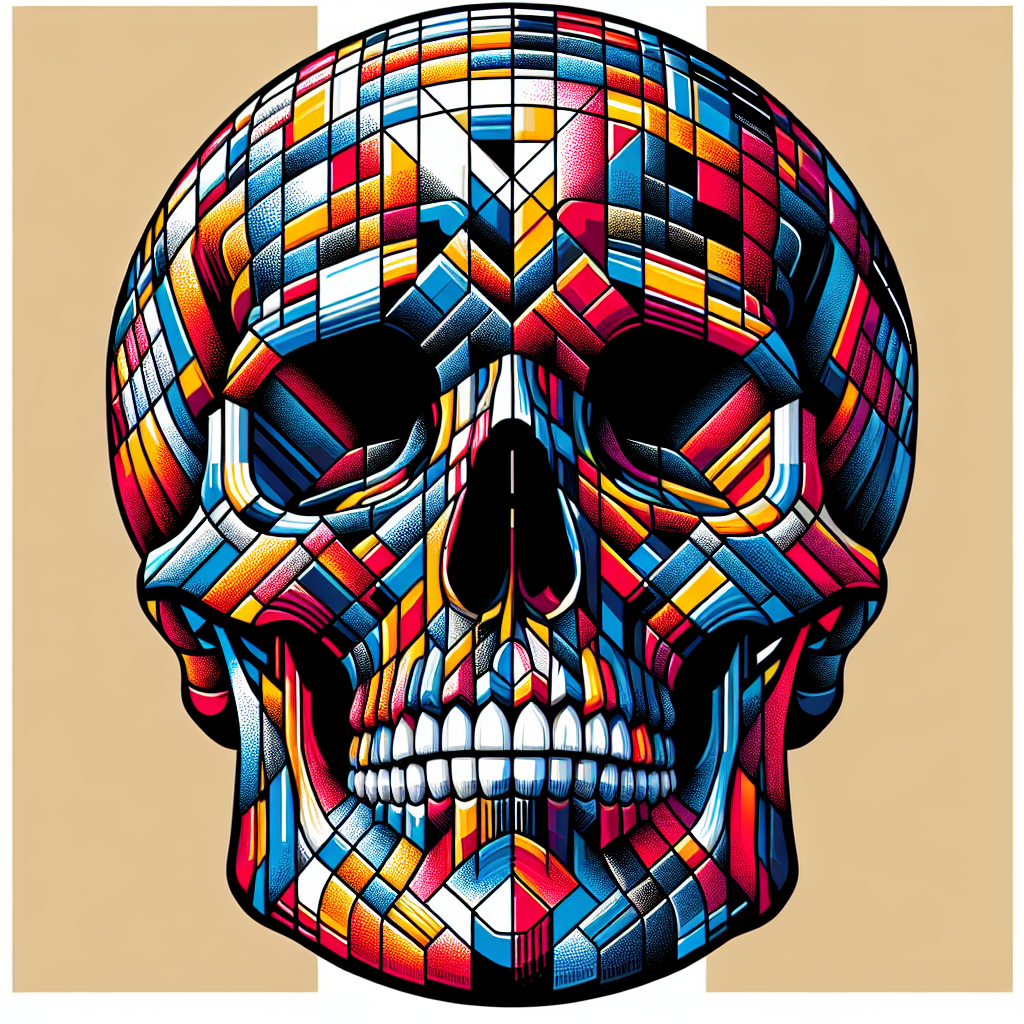
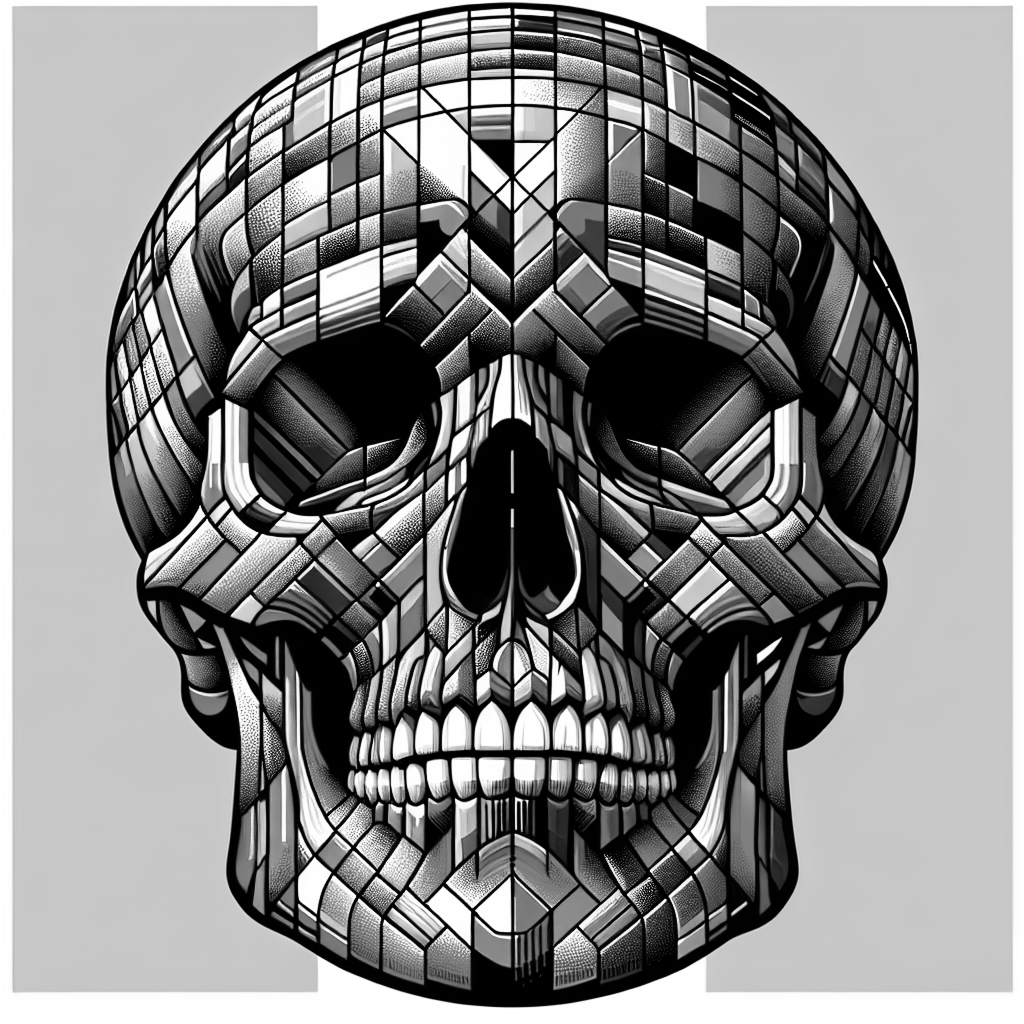
B&W Skulls corrected

diff --git a/docs/Script/Skulls_Fetch_Gallery.js b/docs/Script/Skulls_Fetch_Gallery.js
@@ -1,13 +1,10 @@
-async function fetchData() {
+async function fetchData(cstyle, pstyle) {
+    pstyle = pstyle.replace(/_/g, ' '); // Ersetze Unterstriche durch Leerzeichen
     
-
     const sheetID = "1T4GWfvQLQOKGPZnIL-CpqHDDYs5u8UwI8ll-wc7Ep0w"; // Deine Google Sheet ID
     const range = "A:Z"; // Bereich mit allen Spalten
-    const statement = "SELECT * WHERE K='AI Generated' AND M='Color'"
+    const statement = `SELECT * WHERE K='${pstyle}' AND M='${cstyle}'`;
     const url = `https://docs.google.com/spreadsheets/d/${sheetID}/gviz/tq?tqx=out:json&tq=${statement}&range=${range}`;
-
-
-
 
     try {
         const response = await fetch(url);
@@ -41,12 +38,14 @@ async function fetchData() {
             console.log("Erste Zeile:", json.table.rows[0].c);
         }
 
-        // Daten extrahieren (max. 100 Einträge)
-        const skulls = json.table.rows.slice(0, 100).map(row => ({
-            image: row[Index_Skull_Image]?.v ? String(row[Index_Skull_Image].v) : "https://inthemachine-io.github.io/skulls/146-991693-AS.png",
-            detailURL: row[Index_Skull_Detail_URL]?.v ? String(row[Index_Skull_Detail_URL].v) : "#",
-            artist: row[Index_Skull_Artist_Name]?.v ? String(row[Index_Skull_Artist_Name].v) : "Unknown Artist",
-        }));
+        const skulls = json.table.rows.map(row => {
+            const cells = row.c;
+            return {
+                image: cells[Index_Skull_Image]?.v ? String(cells[Index_Skull_Image].v) : "https://inthemachine-io.github.io/skulls/146-991693-AS.png",
+                detailURL: cells[Index_Skull_Detail_URL]?.v ? String(cells[Index_Skull_Detail_URL].v) : "#",
+                artist: cells[Index_Skull_Artist_Name]?.v ? String(cells[Index_Skull_Artist_Name].v) : "Unknown Artist",
+            };
+        });
 
         if (skulls.length === 0) {
             console.log("⚠ Keine passenden Daten verfügbar.");
@@ -55,7 +54,7 @@ async function fetchData() {
 
         // Verteile die Bilder auf 10 Galleries mit je 10 Einträgen
         for (let i = 0; i < 10; i++) {
-            const gallery = document.getElementById(`gallery0${i + 1}`);
+            const gallery = document.getElementById(`gallery${i + 1}`);
             if (!gallery) continue;
 
             const thumbnails = gallery.querySelectorAll("a.thumbnail");
@@ -89,6 +88,16 @@ async function fetchData() {
     }
 }
 
+function getQueryParams() {
+    const params = new URLSearchParams(window.location.search);
+    const cstyle = params.get('cstyle');
+    const pstyle = params.get('pstyle');
+    return { cstyle, pstyle };
+}
+
 // Stelle sicher, dass fetchData erst nach dem vollständigen Laden des DOMs ausgeführt wird
-document.addEventListener("DOMContentLoaded", fetchData);
+document.addEventListener("DOMContentLoaded", () => {
+    const { cstyle, pstyle } = getQueryParams();
+    fetchData(cstyle, pstyle);
+});
 console.log("🚀 Galerie-Script gestartet!");
